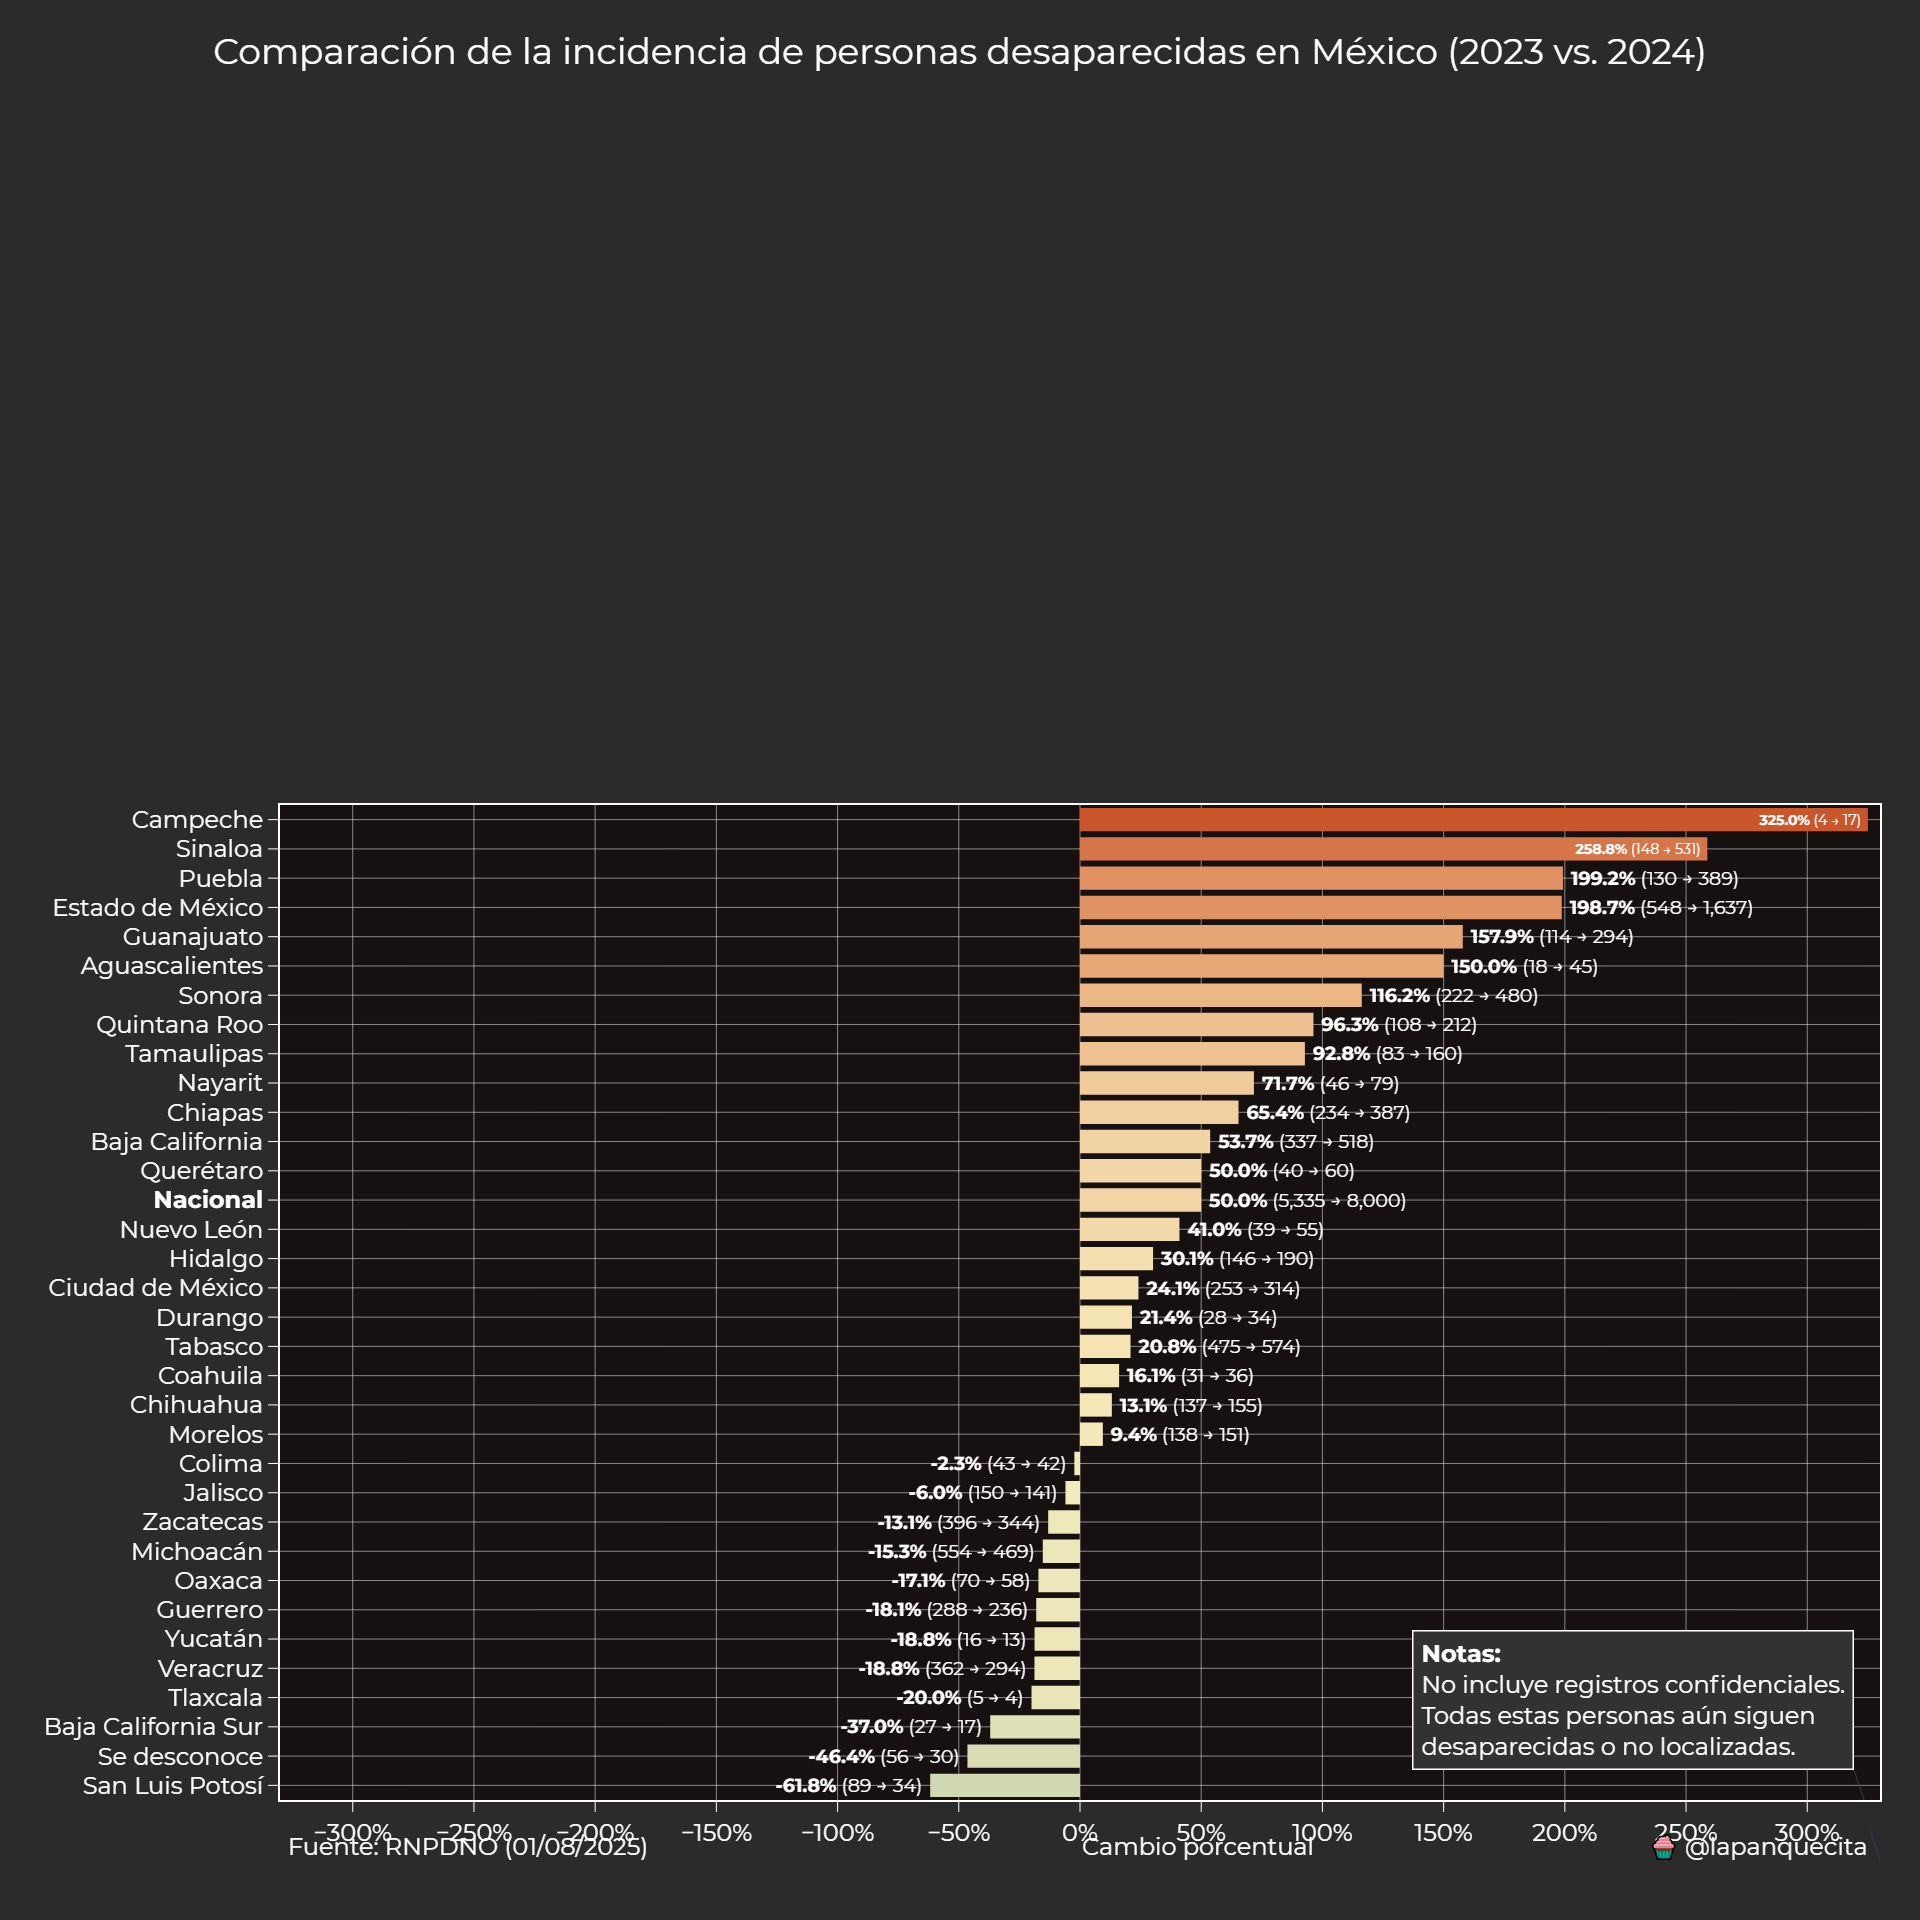
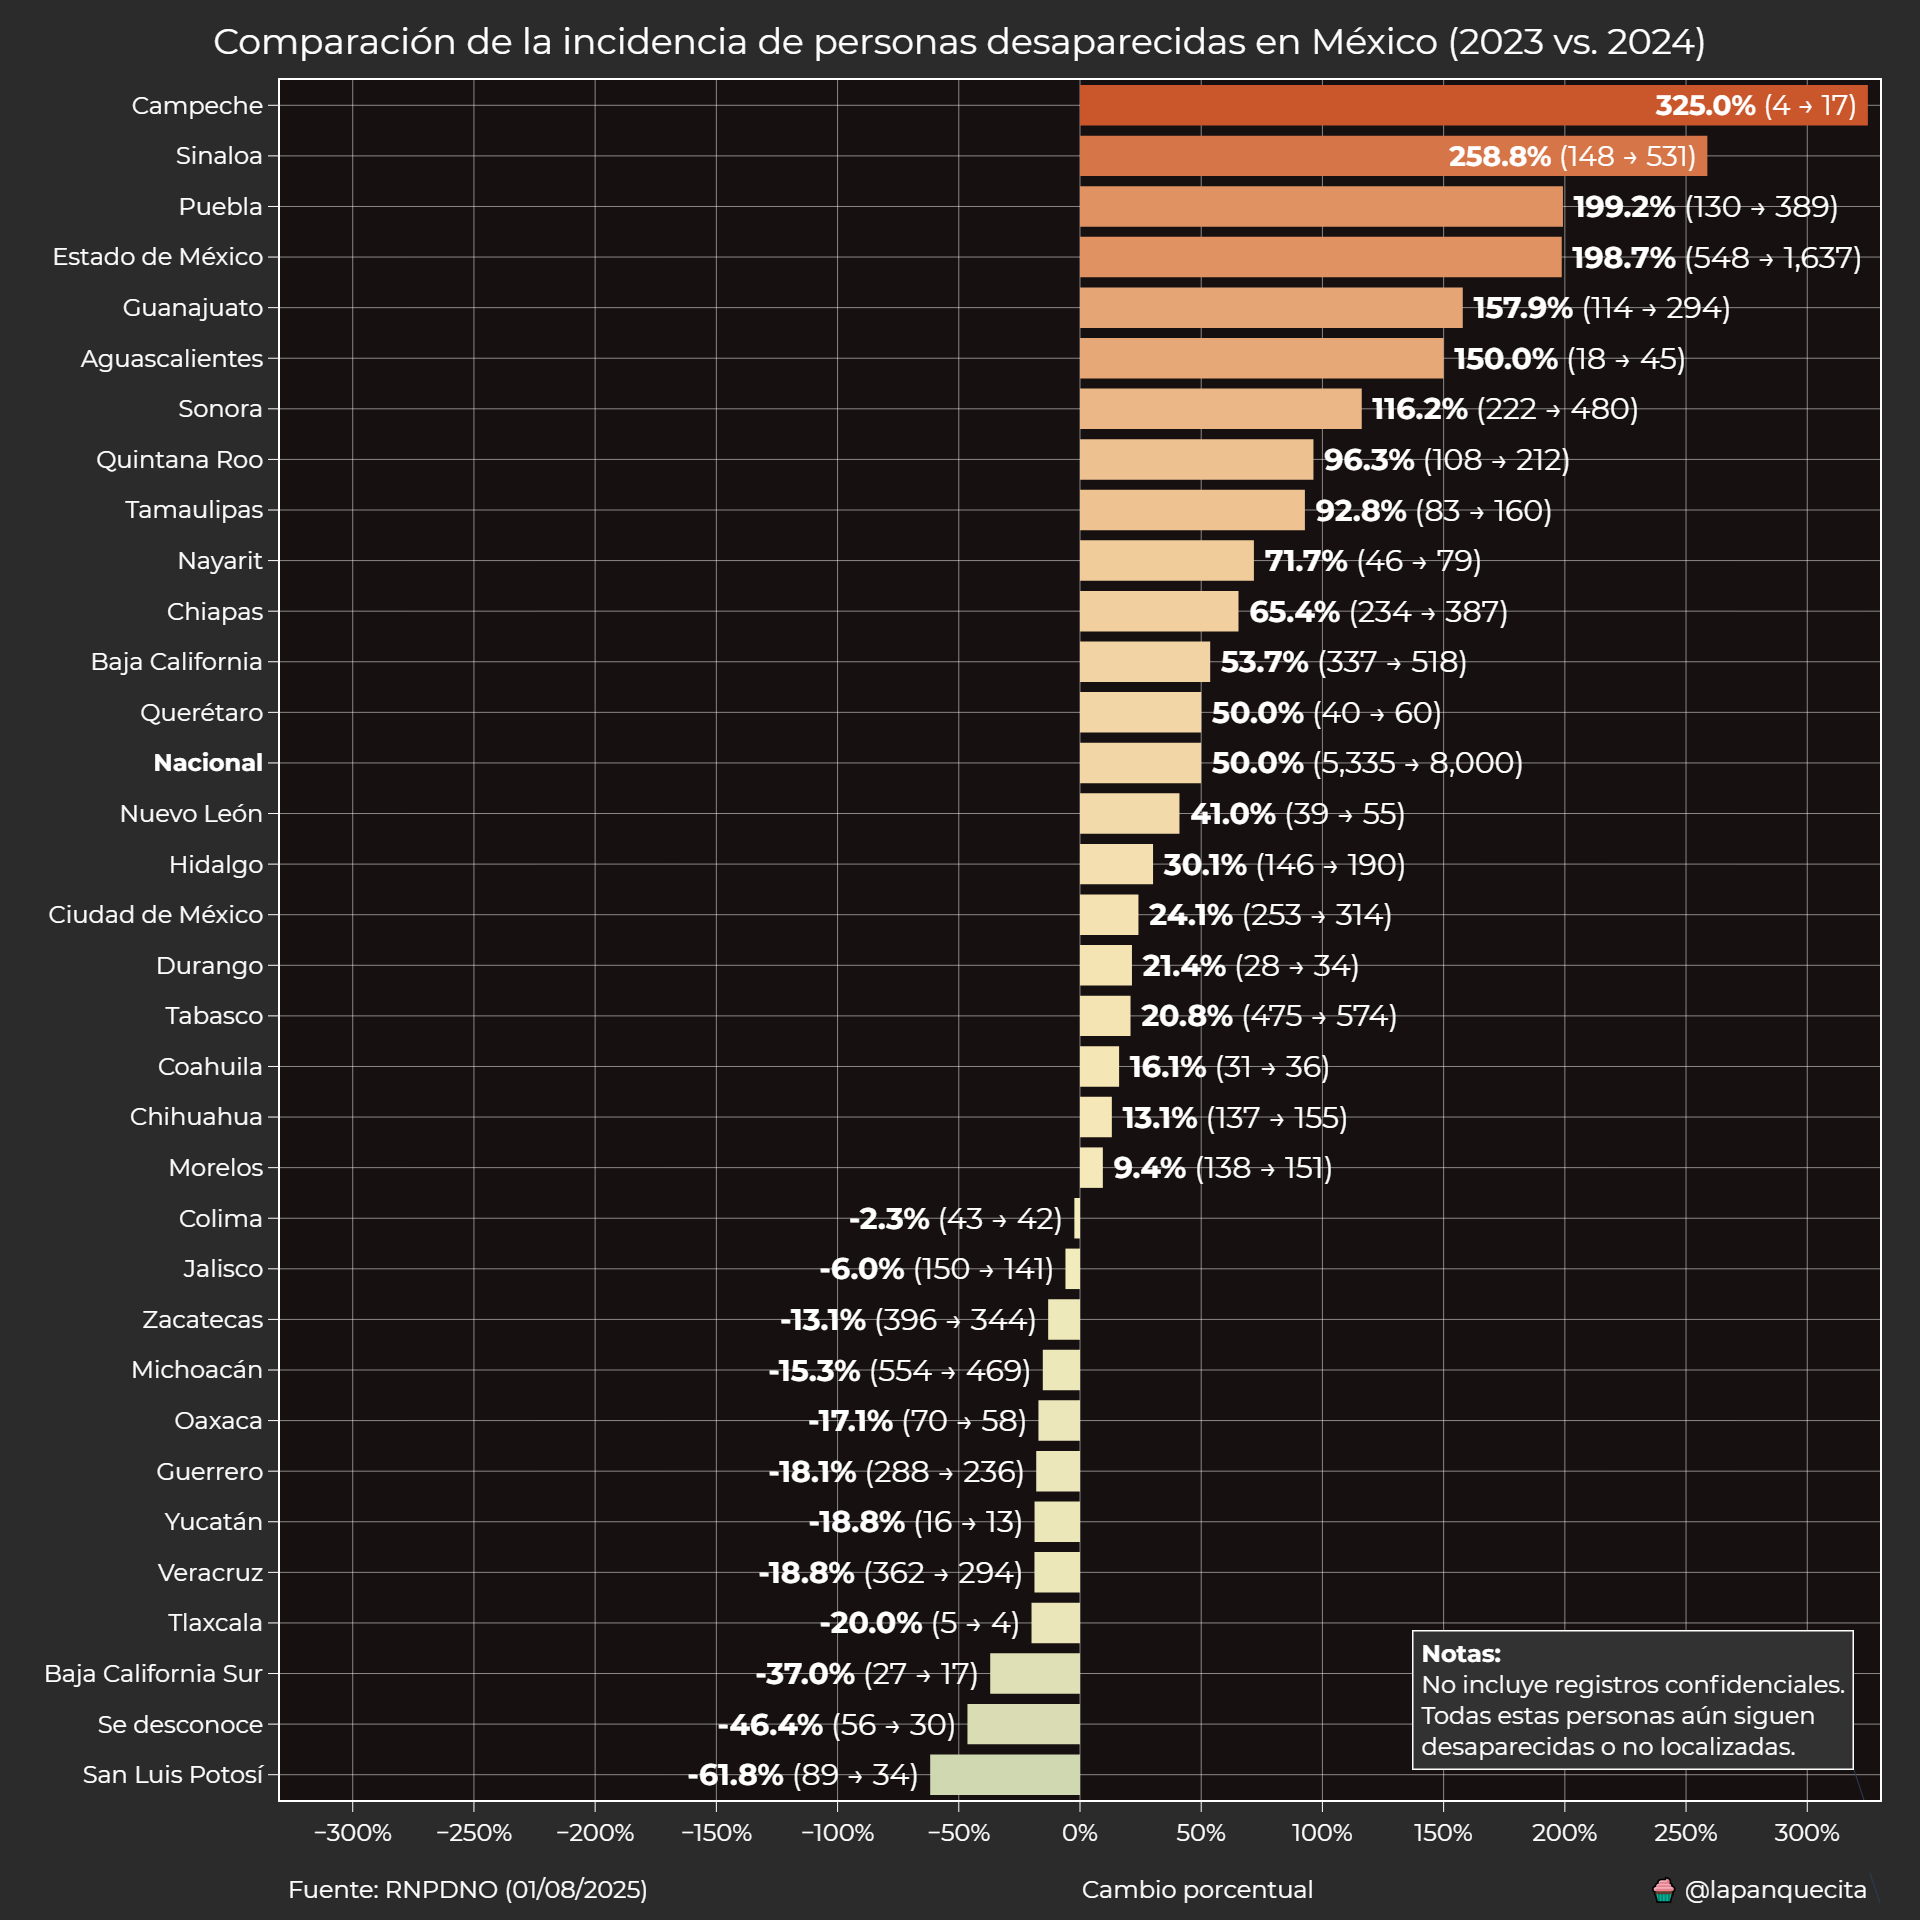
Arreglo

diff --git a/estatal.py b/estatal.py
@@ -1064,8 +1064,8 @@ def comparacion_anual(primer_año, segundo_año):
         font_size=24,
         title_text=f"Comparación de la incidencia de personas desaparecidas en México ({primer_año} vs. {segundo_año})",
         title_x=0.5,
-        title_y=0.98,
-        margin_t=805,
+        title_y=0.985,
+        margin_t=80,
         margin_r=40,
         margin_b=120,
         margin_l=280,
